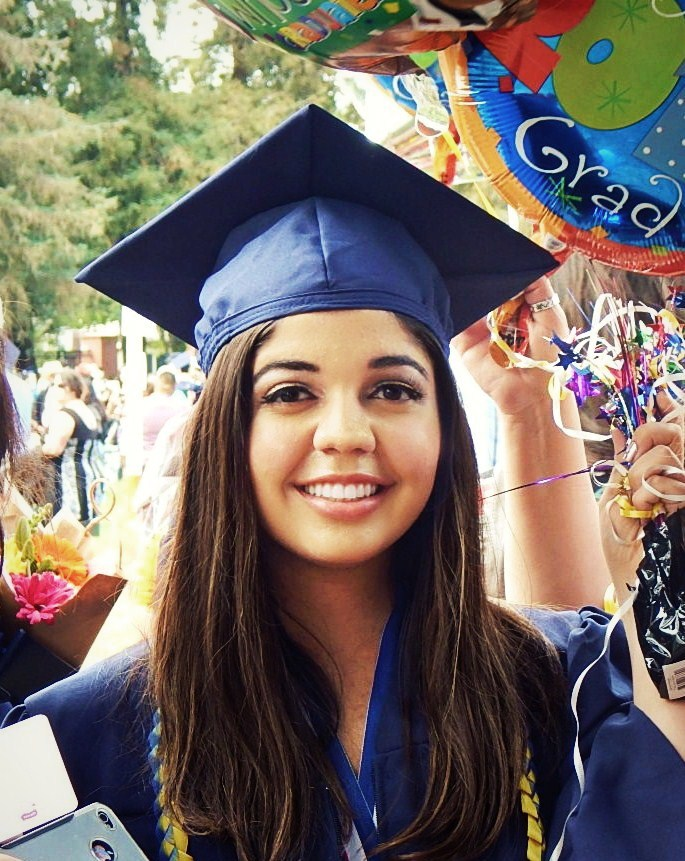
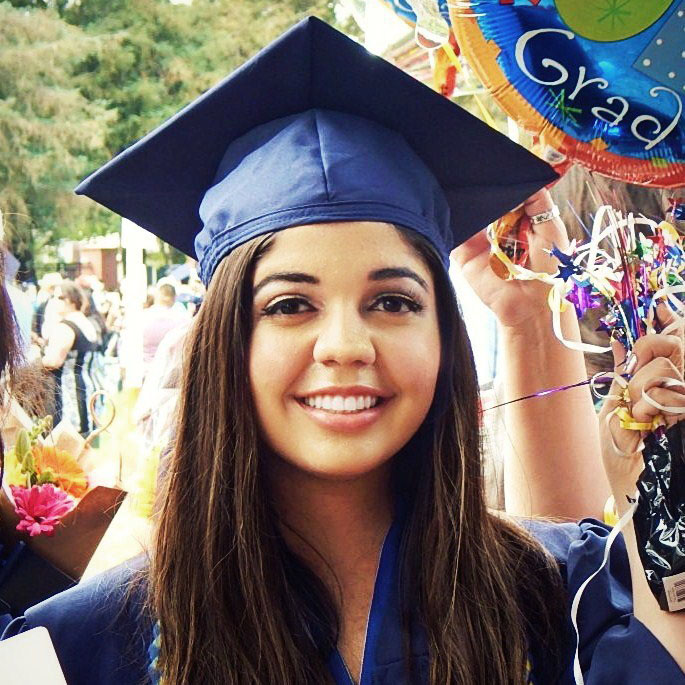
square pics for team 2015

diff --git a/about.html b/about.html
@@ -320,15 +320,53 @@
       <div id="team15" class="tab-pane fade">
         <div class="container">
           <div class="row">
-            <div class="col-xs-12 col-md-12">
-              <br>
-              <h2>Participants</h2>
-              <div class="col-sm-4">
-                <div class="team-member">
-                  <img src="img/Team2015/DorrinAkbari.jpg" class="img-responsive img-circle" alt="">
-                  <h4>Dorrin Akbari</h4>
-                  <p class="text-muted">Hello! My name is Dorrin Akbari, and I moved from Iran to California when I was seven years old.I only speak Farsi at home, so don't be surprised if I accidentally change languages in the middle of a conversation (it's happened more often than I'd like to admit). I became interested in CS after falling in love with the paradise that is the Googleplex at Google's Engineering Week, but I haven't had much experience in the field. I'm still uncertain about what I want to do with my life, so I've recently adopted a "say yes to things (that won't kill me)" policy. So far I've said "yes" to sitting on the ledge of a building to watch the sunset with my friends every night, a spontaneous camping trip, and CS KickStart. I look forward to meeting everyone in the program, and I can't wait to explore Cal together!</p>
-                </div>
+            <br>
+            <h2>2015 Participants</h2>
+            <div class="col-sm-4 col-xs-6">
+              <div class="team-member">
+                <img src="img/Team2015/DorrinAkbari.jpg" class="img-responsive img-circle" alt="" width="65%">
+                <h4>Dorrin Akbari</h4>
+                <p class="text-muted">Hello! My name is Dorrin Akbari, and I moved from Iran to California when I was seven years old.I only speak Farsi at home, so don't be surprised if I accidentally change languages in the middle of a conversation (it's happened more often than I'd like to admit). I became interested in CS after falling in love with the paradise that is the Googleplex at Google's Engineering Week, but I haven't had much experience in the field. I'm still uncertain about what I want to do with my life, so I've recently adopted a "say yes to things (that won't kill me)" policy. So far I've said "yes" to sitting on the ledge of a building to watch the sunset with my friends every night, a spontaneous camping trip, and CS KickStart. I look forward to meeting everyone in the program, and I can't wait to explore Cal together!</p>
+              </div>
+            </div>
+
+            <div class="col-sm-4 col-xs-6">
+              <div class="team-member">
+                <img src="img/Team2015/TamikaBassman.jpg" class="img-responsive img-circle" alt="" width="65%">
+                <h4>Tamika Bassman</h4>
+                <p class="text-muted">Hello! My name is Tamika, and I'm from Alameda, California, which is about half an hour's drive from Berkeley, traffic permitting.  I was admitted as an Engineering - Undeclared major and am considering majoring in EECS.  I don't have a lot of previous experience with programming or computer science, so this summer I've been exploring a couple different programming languages for fun. With its omnipresence in society today, even a basic understanding of CS seems like a relevant, exciting, and powerful skill to have.  In high school, I was a Key Club member, violinist in my school's jazz band, president of my school's Chamber Music Club, and track team captain.  Some other fun facts about me are that I am left-handed (but am no Jimi Hendrix - I play right-handed violin) and Wasian (can't go wrong with pho and boba). I'm really excited to meet all my fellow CS Kickstarters!</p>
+              </div>
+            </div>
+
+            <div class="col-sm-4 col-xs-6">
+              <div class="team-member">
+                <img src="img/Team2015/AzucenaCastro.jpg" class="img-responsive img-circle" alt="" width="65%">
+                <h4>Azucena Castro</h4>
+                <p class="text-muted">Hello, my name is Azucena Castro, and I am from Compton in SoCal. My major is EECS. My experience in programming is limited, but I am excited to find my interests and learn more about the computer science field through CS Kickstart. I enjoy reading, listening to music, meeting new people, and volunteering in my community. I look forward to meeting all of you!</p>
+              </div>
+            </div>
+          </div>
+          <div class="row">
+            <div class="col-sm-4 col-xs-6">
+              <div class="team-member">
+                <img src="img/Team2015/SonaJeswani.jpg" class="img-responsive img-circle" alt="" width="65%">
+                <h4>Sona Jeswani</h4>
+                <p class="text-muted">Hello! My name is Sona Jeswani and I'm from Sacramento, California. I will be a freshman at UC Berkeley this fall and I plan to double major in Computer Science and Economics. Ever since I was little, I have always been fascinated by computers and other technology. I have been an integral part of Solar Car and Robotics teams in high school. I have also been involved in FBLA and varsity Speech and Debate competitions throughout high school. I absolutely love playing table tennis and I enjoy photography. I am a huge fan of the Food Network even though I am not that much of a cook (but hopefully I will be!). As part of my lifestyle, I enjoy going on daily jogs, eating healthy and exploring trails around my community. I am beyond excited to be a part of CS Kickstart and I can't wait to meet you all! </p>
+              </div>
+            </div>
+            <div class="col-sm-4 col-xs-6">
+              <div class="team-member">
+                <img src="img/Team2015/JessicaCherny.jpg" class="img-responsive img-circle" alt="" width="65%">
+                <h4>Jessica Cherny</h4>
+                <p class="text-muted">Hello Bears! My name is Jessica, and I'm from San Mateo, CA (about 45 minutes away from Berkeley). I plan on majoring in L&S computer science. After taking APCS and fiddling with some code in robotics, I was captivated by what computer science has the capability of doing. Now I want to dive deeper into CS at Cal! Outside of CS, I love to listen to music, volunteer, watch Harry Potter marathons, eat lots of yummy food, go to art/history museums, read articles and books on feminism, explore new places, and binge on Wikipedia! I can't wait to meet all of my fellow CS KickStart sisters and form lasting bonds with them throughout my time at Berkeley and beyond!
+</p>
+              </div>
+            </div>
+            <div class="col-sm-4 col-xs-6">
+              <div class="team-member">
+                <img src="img/Team2015/KivaUhuru.jpg" class="img-responsive img-circle" alt="" width="65%">
+                <h4>Kiva Uhuru</h4>
+                <p class="text-muted">Hello, world! I'm an EECS major from San Jose, California. I was on the FRC robotics team at my high school for 4 years and I've dabbled in a few coding languages, ranging from Arduino to C# to Javascript. Beyond my studies, I'm working to be a social activist in STEM education; I spoke at the NAPE PDI Conference in Alexandria, VA, and the national PLTWSummit in Indianapolis on inequity in representation in STEM and the media. In the summers I help design programming curriculum to help encourage girls to become empowered and conscientious media developers. I almost always have my guitar with me, it's a old habit I picked up in the 8th grade. My favourite places to play are anywhere around people, and I've been told my sound edges on soulful and alternative rock. My major influences are the Districts, Billie Holiday, Bebel Giberto, Beruit, and Little Dragon.</p>
               </div>
             </div>
           </div>
